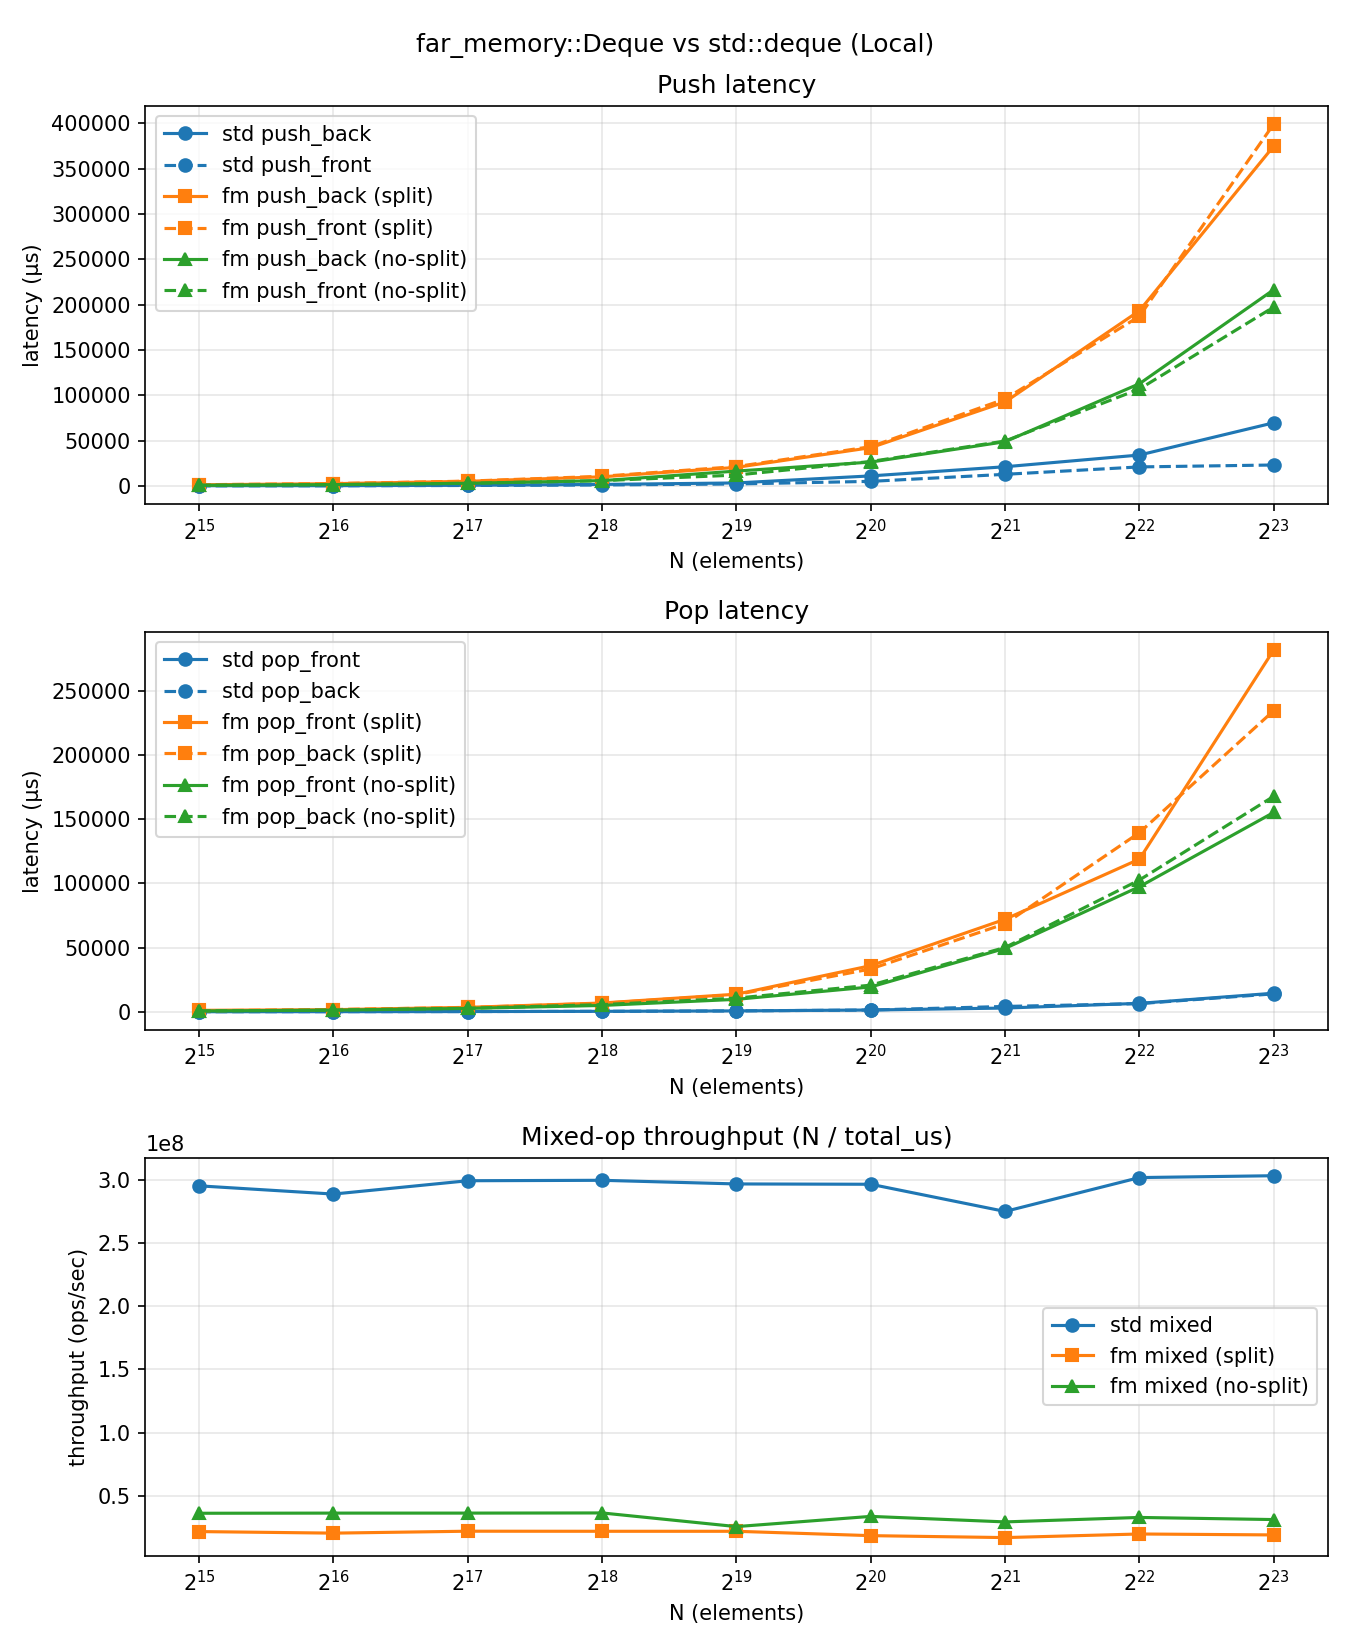
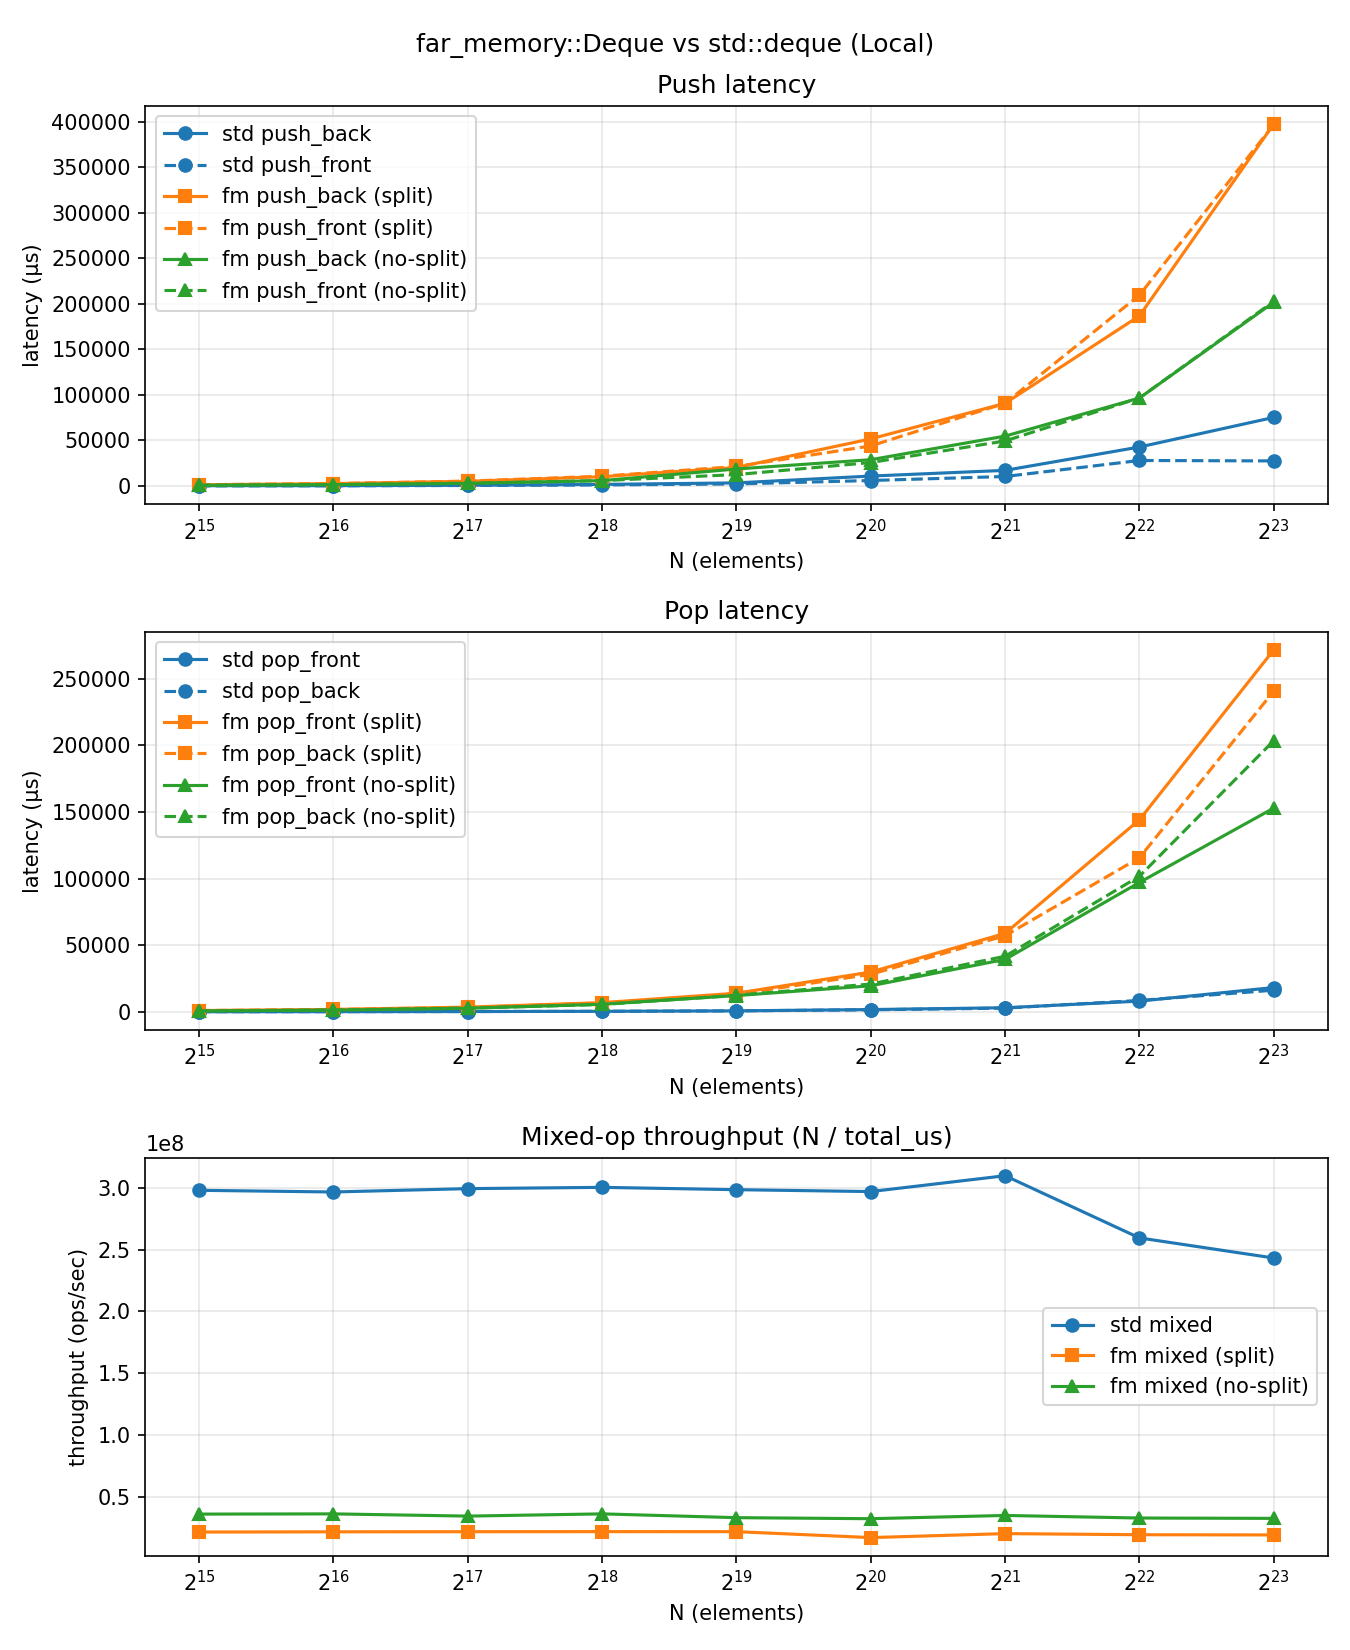
u

diff --git a/aifm/test/test_tcp_deque_perf.cpp b/aifm/test/test_tcp_deque_perf.cpp
@@ -26,7 +26,7 @@ constexpr uint32_t kNumGCThreads = 12;
 constexpr uint32_t kNumConnections = 300;
 constexpr uint32_t kScopeResetInterval = 256;
 
-static const uint32_t kSizes[] = {1<<15, 1<<16, 1<<17, 1<<18, 1<<19, 1<<20};
+static const uint32_t kSizes[] = {1<<15, 1<<16, 1<<17, 1<<18, 1<<19, 1<<20, 1<<21, 1<<22, 1<<23};
 
 class DequePerfReport {
 public: